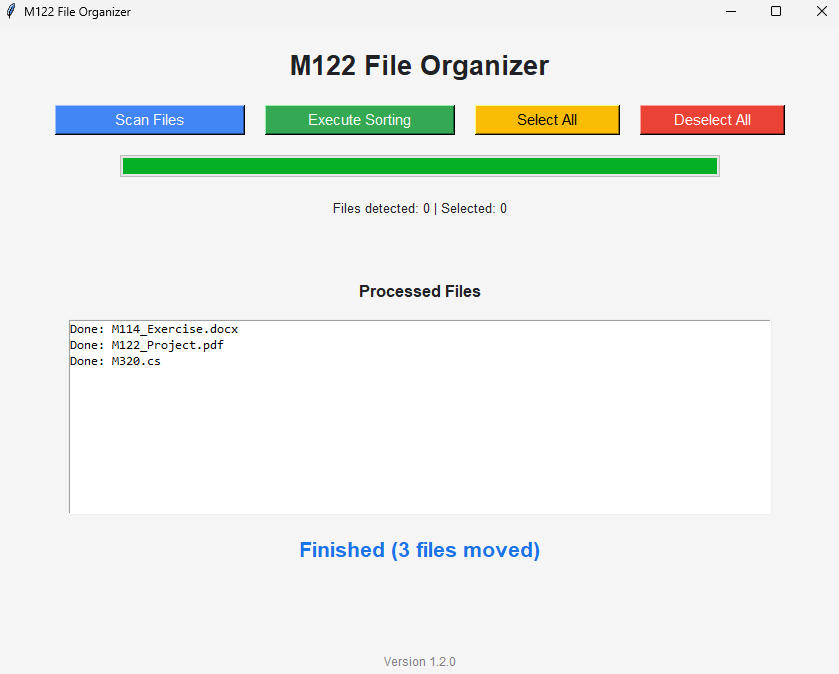
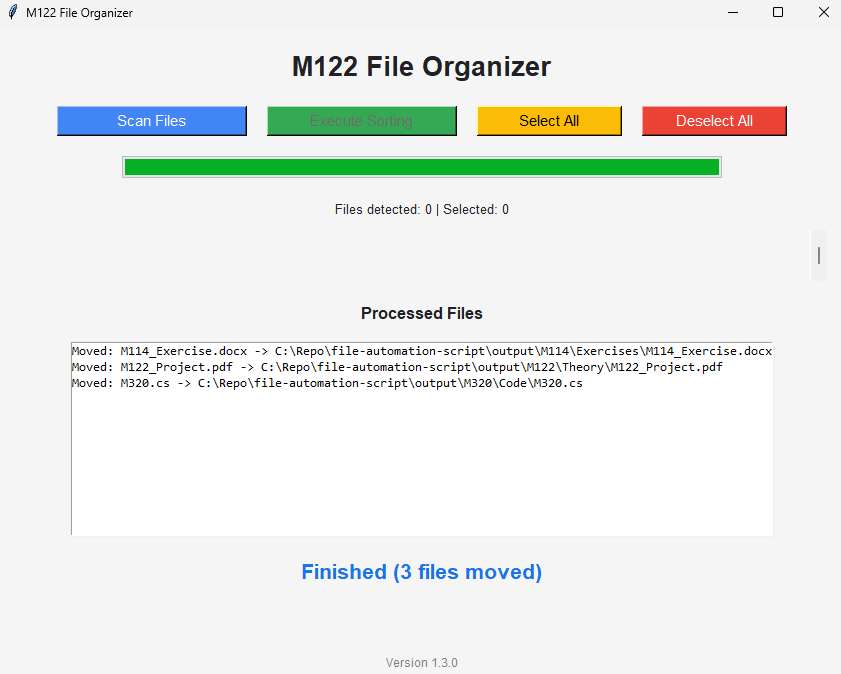
Change images in Readme and fix UI sorting

diff --git a/tests/test_gui.py b/tests/test_gui.py
@@ -15,6 +15,8 @@ if str(SRC_PATH) not in sys.path:
     sys.path.insert(0, str(SRC_PATH))
 
 import gui_selection
+import gui_sorting
+import gui_sorting_cleanup
 
 
 class FakeCheckbutton(gui_selection.tk.Checkbutton):
@@ -29,8 +31,16 @@ class FakeCheckbutton(gui_selection.tk.Checkbutton):
         """
 
         self.file = file_name
+        self.destroyed = False
         self.variable = MagicMock()
         self.variable.get.return_value = selected
+
+    def destroy(self):
+        """
+        Record that the checkbox would have been removed from the GUI.
+        """
+
+        self.destroyed = True
 
 
 class TestGUISelection(unittest.TestCase):
@@ -99,6 +109,113 @@ class TestGUISelection(unittest.TestCase):
         self.first_checkbox.variable.set.assert_called_once_with(False)
         self.second_checkbox.variable.set.assert_called_once_with(False)
         mocked_update_statistics.assert_called_once()
+
+    @patch("gui_sorting_cleanup.update_checkbox_area")
+    def test_clear_sorted_files_keeps_unselected_file(self, mocked_update_area):
+        """
+        Verify that cleanup removes only moved files and keeps unchecked files
+        visible for a later sorting run.
+        """
+
+        gui_sorting_cleanup.clear_sorted_files(
+            self.state,
+            [self.first_checkbox.file]
+        )
+
+        self.assertTrue(self.first_checkbox.destroyed)
+        self.assertFalse(self.second_checkbox.destroyed)
+        self.assertEqual(
+            [self.second_checkbox.file],
+            self.state.detected_files
+        )
+        self.state.execute_button.config.assert_not_called()
+        mocked_update_area.assert_called_once_with(self.state)
+
+    @patch("gui_sorting_cleanup.update_checkbox_area")
+    def test_clear_sorted_files_disables_execute_when_empty(
+            self,
+            mocked_update_area
+    ):
+        """
+        Verify that the execute button is disabled when no detected files remain
+        after sorting.
+        """
+
+        gui_sorting_cleanup.clear_sorted_files(
+            self.state,
+            [
+                self.first_checkbox.file,
+                self.second_checkbox.file,
+            ]
+        )
+
+        self.assertEqual(
+            [],
+            self.state.detected_files
+        )
+        self.state.execute_button.config.assert_called_once_with(
+            state="disabled"
+        )
+        mocked_update_area.assert_called_once_with(self.state)
+
+
+class TestGUISorting(unittest.TestCase):
+    """
+    Validates the GUI sorting workflow independently from real Tkinter windows.
+    """
+
+    @patch("gui_sorting.update_status")
+    @patch("gui_sorting.send_manual_report")
+    @patch("gui_sorting.clear_sorted_files")
+    @patch("gui_sorting.move_file")
+    @patch("gui_sorting.extract_module")
+    @patch("gui_sorting.get_selected_files")
+    def test_execute_sorting_shows_destination_path(
+            self,
+            mocked_get_selected_files,
+            mocked_extract_module,
+            mocked_move_file,
+            mocked_clear_sorted_files,
+            mocked_send_manual_report,
+            mocked_update_status
+    ):
+        """
+        Verify that processed output shows where each selected file was moved.
+        """
+
+        selected_file = Path("M122_Report.pdf")
+        destination_file = (
+            PROJECT_ROOT /
+            "output" /
+            "M122" /
+            "Theory" /
+            "M122_Report.pdf"
+        )
+        state = MagicMock()
+        state.detected_files = [selected_file]
+        state.progress = {}
+
+        mocked_get_selected_files.return_value = [
+            selected_file
+        ]
+        mocked_extract_module.return_value = "M122"
+        mocked_move_file.return_value = destination_file
+
+        gui_sorting.execute_sorting(state)
+
+        state.files_listbox.insert.assert_called_once_with(
+            gui_sorting.tk.END,
+            f"Moved: M122_Report.pdf -> {destination_file.resolve()}"
+        )
+        mocked_send_manual_report.assert_called_once_with(
+            [
+                f"M122_Report.pdf -> {destination_file.resolve()}"
+            ]
+        )
+        mocked_clear_sorted_files.assert_called_once_with(
+            state,
+            [selected_file]
+        )
 
 
 if __name__ == "__main__":

diff --git a/src/gui_sorting_cleanup.py b/src/gui_sorting_cleanup.py
@@ -7,37 +7,58 @@ Responsibilities:
 - Restore sorting controls
 """
 
-from gui_helpers import update_statistics
+from gui_helpers import (
+    update_checkbox_area,
+    update_statistics
+)
 from gui_checkbox_files import get_selected_files
 
 
-def clear_sorted_files(state):
+def clear_sorted_files(state, sorted_files):
     """
-    Clear the checkbox area after
-    sorting has completed.
+    Remove sorted files from the
+    checkbox area after sorting has
+    completed.
 
     Args:
         state (GUIState):
             Shared GUI state.
+
+        sorted_files (list):
+            Files that were moved.
     """
 
-    for widget in state.scrollable_frame.winfo_children():
+    sorted_file_set = set(
+        sorted_files
+    )
 
-        widget.destroy()
+    remaining_files = []
 
-    state.detected_files.clear()
+    for widget in list(
+            state.scrollable_frame.winfo_children()
+    ):
+
+        if widget.file in sorted_file_set:
+
+            widget.destroy()
+
+        else:
+
+            remaining_files.append(
+                widget.file
+            )
+
+    state.detected_files = remaining_files
 
     update_statistics(
         state,
         get_selected_files
     )
 
-    state.canvas.config(
-        height=30
-    )
+    update_checkbox_area(state)
 
-    state.scrollbar.pack_forget()
+    if not state.detected_files:
 
-    state.execute_button.config(
-        state="disabled"
-    )
+        state.execute_button.config(
+            state="disabled"
+        )

diff --git a/src/gui_sorting.py b/src/gui_sorting.py
@@ -86,18 +86,22 @@ def execute_sorting(state):
                 file.name
             )
 
-            move_file(
+            destination_file = move_file(
                 file,
                 module
             )
 
+            destination_path = (
+                destination_file.resolve()
+            )
+
             moved_files.append(
-                file.name
+                f"{file.name} -> {destination_path}"
             )
 
             state.files_listbox.insert(
                 tk.END,
-                f"Done: {file.name}"
+                f"Moved: {file.name} -> {destination_path}"
             )
 
             state.progress["value"] = (
@@ -125,7 +129,8 @@ def execute_sorting(state):
         )
 
         clear_sorted_files(
-            state
+            state,
+            selected_files
         )
 
     except Exception as error:
@@ -137,7 +142,13 @@ def execute_sorting(state):
 
     finally:
 
+        button_state = (
+            "normal"
+            if state.detected_files
+            else "disabled"
+        )
+
         state.execute_button.config(
-            state="normal",
+            state=button_state,
             text="Execute Sorting"
         )

diff --git a/src/version.py b/src/version.py
@@ -2,4 +2,4 @@
 Application version information.
 """
 
-__version__ = "1.2.0"
+__version__ = "1.3.0"
